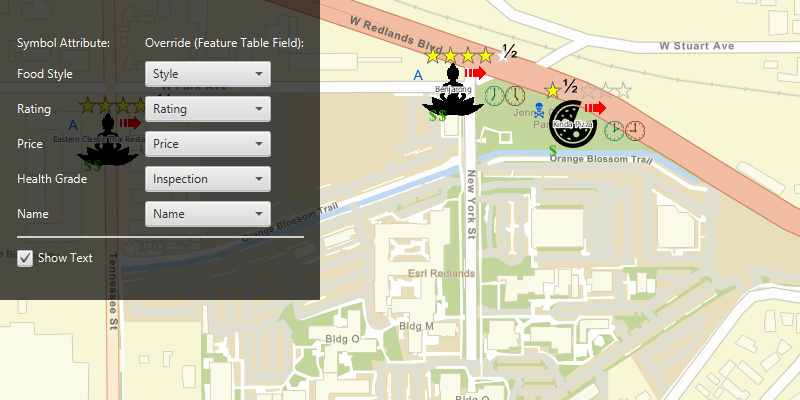
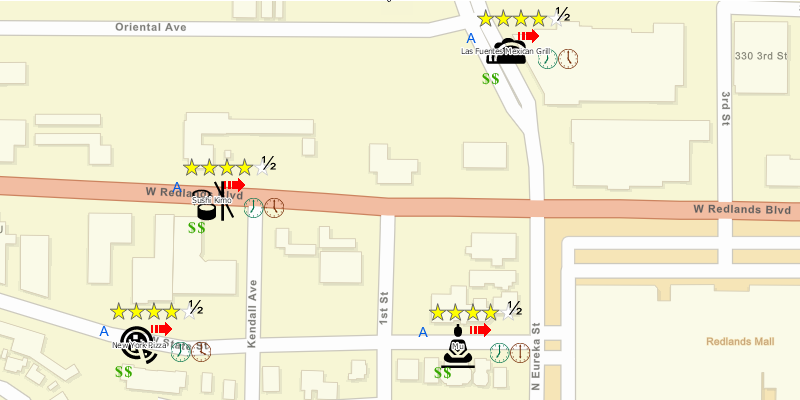
simplify sample

diff --git a/symbology/custom-dictionary-style/src/main/java/com/esri/samples/custom_dictionary_style/CustomDictionaryStyleSample.java b/symbology/custom-dictionary-style/src/main/java/com/esri/samples/custom_dictionary_style/CustomDictionaryStyleSample.java
@@ -16,31 +16,95 @@
 
 package com.esri.samples.custom_dictionary_style;
 
+import java.util.HashMap;
+import java.util.List;
+
 import javafx.application.Application;
-import javafx.fxml.FXMLLoader;
-import javafx.scene.Parent;
 import javafx.scene.Scene;
+import javafx.scene.layout.StackPane;
 import javafx.stage.Stage;
+
+import com.esri.arcgisruntime.data.ServiceFeatureTable;
+import com.esri.arcgisruntime.layers.FeatureLayer;
+import com.esri.arcgisruntime.mapping.ArcGISMap;
+import com.esri.arcgisruntime.mapping.Basemap;
+import com.esri.arcgisruntime.mapping.Viewpoint;
+import com.esri.arcgisruntime.mapping.view.MapView;
+import com.esri.arcgisruntime.symbology.DictionaryRenderer;
+import com.esri.arcgisruntime.symbology.DictionarySymbolStyle;
+import com.esri.arcgisruntime.symbology.DictionarySymbolStyleConfiguration;
 
 public class CustomDictionaryStyleSample extends Application {
 
-  private static CustomDictionaryStyleController controller;
+  private MapView mapView;
 
   @Override
-  public void start(Stage stage) throws Exception {
+  public void start(Stage stage) {
+    try {
+      // create stack pane and application scene
+      StackPane stackPane = new StackPane();
+      Scene scene = new Scene(stackPane);
 
-    // set up the scene
-    FXMLLoader loader = new FXMLLoader(getClass().getResource("/custom_dictionary_style.fxml"));
-    Parent root = loader.load();
-    controller = loader.getController();
-    Scene scene = new Scene(root);
+      // create a map view
+      mapView = new MapView();
 
-    // set title, size, and add scene to stage
-    stage.setTitle("Custom Dictionary Style Sample");
-    stage.setWidth(800);
-    stage.setHeight(700);
-    stage.setScene(scene);
-    stage.show();
+      // set title, size, and add scene to stage
+      stage.setTitle("Custom Dictionary Style Sample");
+      stage.setWidth(800);
+      stage.setHeight(700);
+      stage.setScene(scene);
+      stage.show();
+
+      // open the custom style file
+      DictionarySymbolStyle restaurantStyle = DictionarySymbolStyle.createFromFile("./samples-data/stylx/Restaurant.stylx");
+
+      // create a new map with a streets basemap and show it
+      ArcGISMap map = new ArcGISMap(Basemap.createStreetsVector());
+      mapView.setMap(map);
+
+      // create the restaurants feature table from the feature service
+      ServiceFeatureTable restaurantFeatureTable = new ServiceFeatureTable("https://services2.arcgis.com/ZQgQTuoyBrtmoGdP/arcgis/rest/services/Redlands_Restaurants/FeatureServer/0");
+
+      // create the restaurants layer and add it to the map
+      FeatureLayer restaurantLayer = new FeatureLayer(restaurantFeatureTable);
+      map.getOperationalLayers().add(restaurantLayer);
+
+      // set the map's initial extent to that of the restaurants layer
+      restaurantLayer.loadAsync();
+      restaurantLayer.addDoneLoadingListener(() ->
+              map.setInitialViewpoint(new Viewpoint((restaurantLayer.getFullExtent()))));
+
+      // create overrides for expected field names that are different in this dataset
+      HashMap<String, String> styleToFieldMappingOverrides = new HashMap<>();
+      styleToFieldMappingOverrides.put("style", "Style");
+      styleToFieldMappingOverrides.put("price", "Price");
+      styleToFieldMappingOverrides.put("healthgrade", "Inspection");
+      styleToFieldMappingOverrides.put("rating", "Rating");
+
+      // create overrides for expected text field names (if any)
+      HashMap<String, String> textFieldOverrides = new HashMap<>();
+      textFieldOverrides.put("name", "Name");
+
+      // set the text visibility configuration setting
+      List<DictionarySymbolStyleConfiguration> configurations = restaurantStyle.getConfigurations();
+      for (DictionarySymbolStyleConfiguration configuration : configurations) {
+        if (configuration.getName().equals("text")) {
+          configuration.setValue("ON");
+        }
+      }
+
+      // create the dictionary renderer with the style file and the field overrides
+      DictionaryRenderer dictionaryRenderer = new DictionaryRenderer(restaurantStyle, styleToFieldMappingOverrides, textFieldOverrides);
+
+      // apply the dictionary renderer to the layer
+      restaurantLayer.setRenderer(dictionaryRenderer);
+
+      // add the map view to the stack pane
+      stackPane.getChildren().add(mapView);
+
+    } catch (Exception e) {
+      e.printStackTrace();
+    }
   }
 
   /**
@@ -48,7 +112,11 @@ public class CustomDictionaryStyleSample extends Application {
    */
   @Override
   public void stop() {
-    controller.terminate();
+
+    // release resources when the application closes
+    if (mapView != null) {
+      mapView.dispose();
+    }
   }
 
   /**
